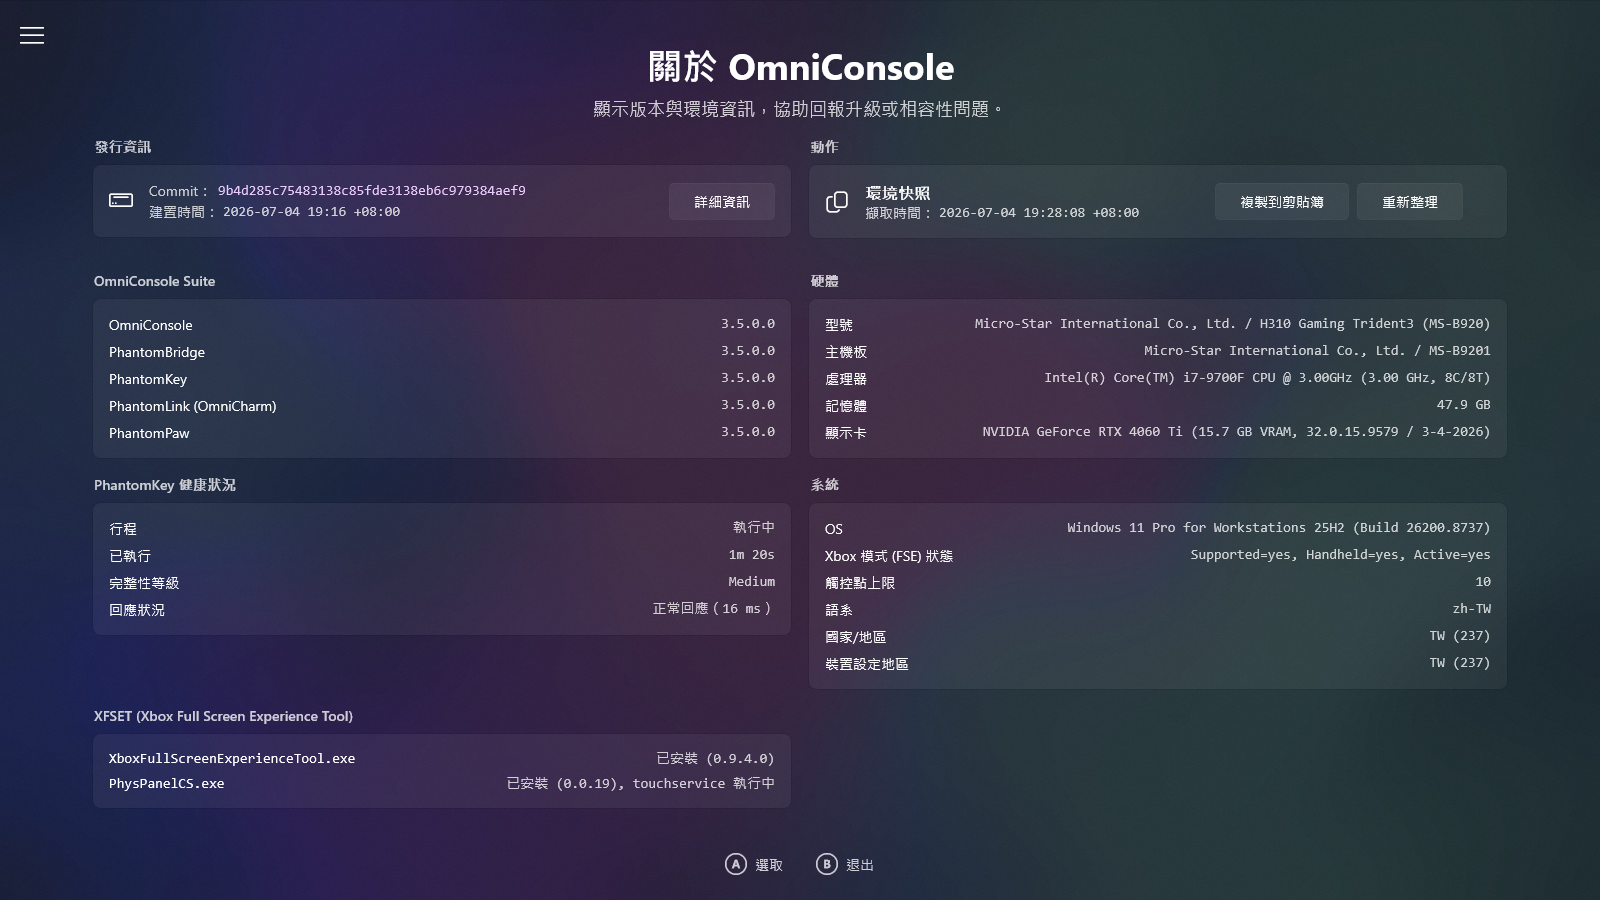
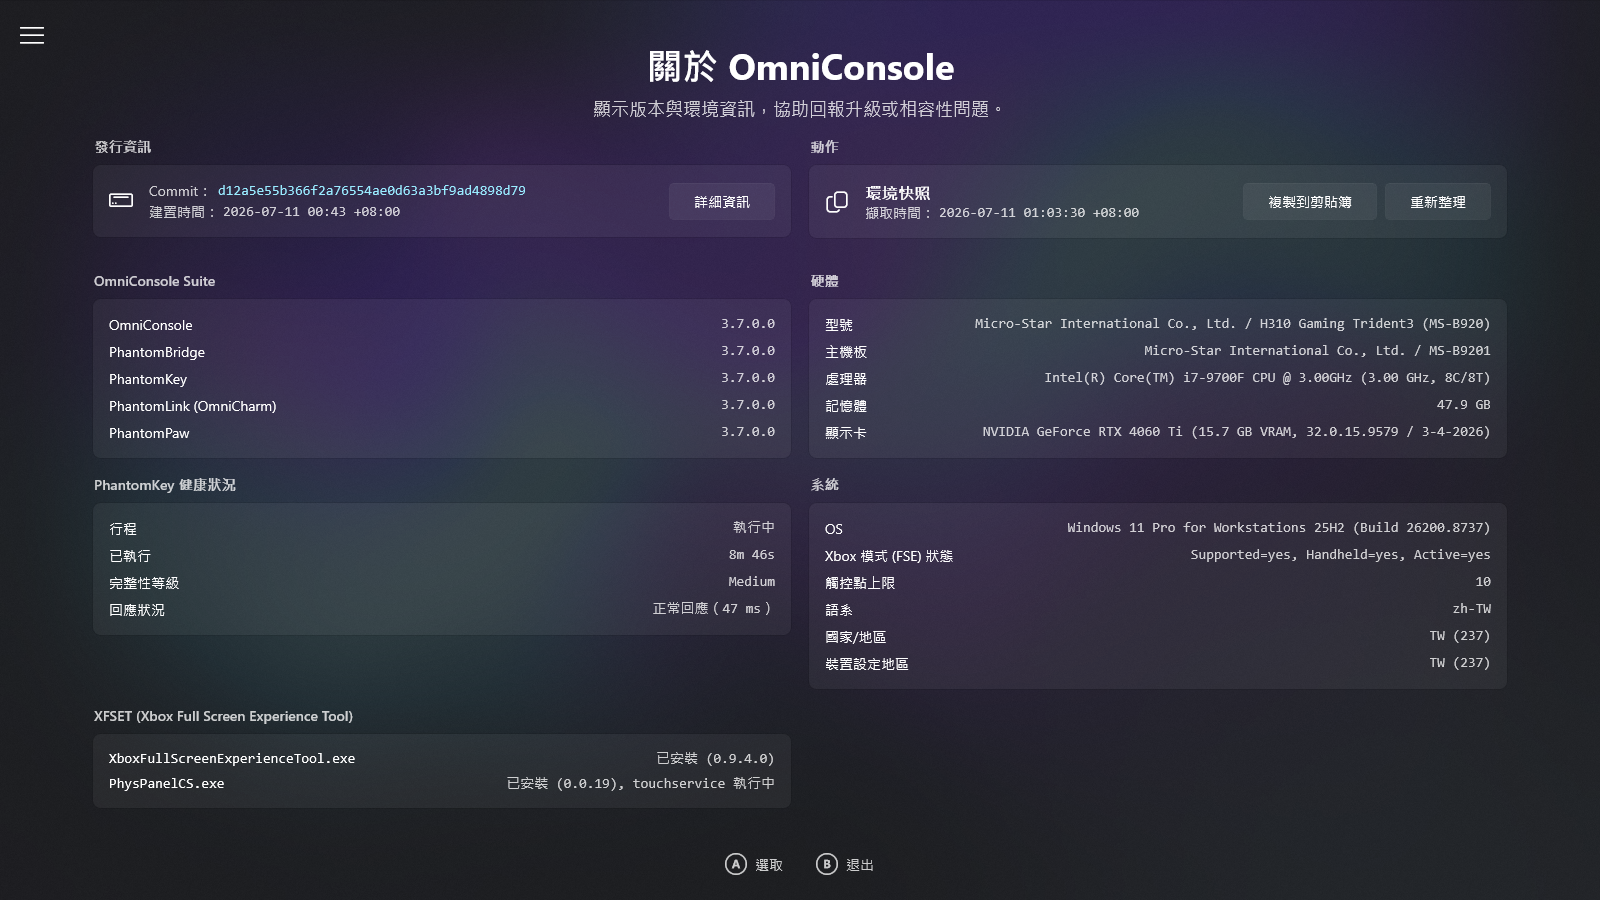
chore: Bump version to 3.7.0.0, recast Nekomata Mode with Boost, hold-to-repeat & customizable app presets, and refresh documentation with new screenshots

diff --git a/README.md b/README.md
@@ -19,7 +19,7 @@
 
 ## 💡 What is OmniConsole?
 
-OmniConsole serves as your Windows 11 Xbox Mode (FSE) Home shell on PCs and handhelds (ROG Xbox Ally X, etc.), with an OmniCharm Game Bar widget, Mouse Mode, Steam shortcuts, and Nekomata per-app gamepad mapping so everything stays on the gamepad.
+OmniConsole serves as your Windows 11 Xbox Mode (FSE) Home shell on PCs and handhelds (ROG Xbox Ally X, etc.), with an OmniCharm Game Bar widget, Steam shortcuts, and Nekomata Mode to turn your gamepad into keyboard and mouse, tailored per app, so everything stays on the gamepad.
 
 Whenever Xbox Mode (FSE) activates, OmniConsole launches your configured gaming platform. Any platform can be your Xbox Mode (FSE) Home — Steam, Xbox, Epic, Armoury Crate SE, Playnite, or anything you add.
 
@@ -43,9 +43,8 @@ Whenever Xbox Mode (FSE) activates, OmniConsole launches your configured gaming 
 - **Troubleshoot page** – A dedicated page for Xbox Mode (FSE) recovery: restarts Game Bar to fix issues such as the "Restart for better performance" dialog not appearing, then enters Xbox Mode (FSE).
 - **Environment snapshot** – An "About" page that captures your system, hardware, and OmniConsole health status, with one-click copy as a Markdown report for easy bug reporting.
 - **Gamepad support** – Navigate with **D-Pad** or **Left Stick**; **A** to confirm, **B** to exit, **LB/RB** to switch category tabs, **Y** to add a custom platform, **X** to edit, and **Menu (☰)** to set the focused platform as default and launch it immediately (when running inside Xbox Mode (FSE)).
-- **Gamepad Mouse Mode** – Use your gamepad as a mouse and keyboard. Three modes: **Off**, **Auto** (browsers, File Explorer, Steam, Epic Games Store, Discord), and **Force On** (all apps except an exclusion list). Cursor speed is adjustable, with two controller layouts to choose from: **OmniNav** and **Classic**.
-- **OmniCharm widget** – A Game Bar widget for in-game quick access. Open **Task View**, the **Xbox Library**, or the **Steam Overlay** in one tap; toggle **Gamepad Mouse Mode**, controller layout, cursor speed, and the **Steam In-Game Overlay** (long-press ☰).
-- **Nekomata — custom per-app gamepad mapping** – Nekomata weaves a charm for each app, remapping every XInput input (A/B/X/Y, LB/RB, LT/RT, LS/RS, D-pad, both sticks) to a keyboard key, modifier combo, mouse button, scroll wheel, cursor movement, scrolling, arrow keys, or WASD. Each app's charm can also **prevent double input** by blocking the app's own native XInput and DirectInput signals to keep them from interfering with the remapped keyboard and mouse. Open the editor from the OmniCharm widget's "Customize gamepad mapping for this app…" button.
+- **OmniCharm widget** – A Game Bar widget for in-game quick access. Open **Task View**, the **Xbox Library**, or the **Steam Overlay** in one tap; toggle **Nekomata Mode**, controller layout preset, cursor speed, and the **Steam In-Game Overlay** (long-press ☰).
+- **Nekomata Mode — gamepad as mouse and keyboard, custom per-app mapping** – When on, your customized profiles take over, while common apps such as browsers, File Explorer, Steam, Epic Games Store, and Discord run on OmniConsole's ready-made mapping, which you can customize too. Nekomata weaves a charm for each app, remapping every XInput input (A/B/X/Y, LB/RB, LT/RT, LS/RS, D-pad, both sticks) to a keyboard key, modifier combo, mouse button, scroll wheel, cursor movement, scrolling, arrow keys, or WASD, with two controller layouts to choose from: **OmniNav** and **Classic**. Each app's charm can also **raise the mapping service priority** with **Nekomata Boost** for demanding games, give any key a **hold-to-repeat** toggle, and **prevent double input** by blocking the app's own native XInput and DirectInput signals to keep them from interfering with the remapped keyboard and mouse. Open the editor from the OmniCharm widget's "Customize gamepad mapping for this app…" button.
 - **Gamepad Steam shortcuts** – The gamepad **⧉** button controls Steam Big Picture shortcuts: short press opens the **Steam Menu**, long press opens the **Quick Access Menu**. Long press **☰** in-game to open the **Steam In-Game Overlay**.
 - **Dedicated Settings entry** – A separate "**OmniConsole Settings**" entry in All Apps lets you change your default platform anytime.
 - **Native Xbox Mode (FSE) integration** – Registered as a Windows 11 Xbox Mode (FSE) Home App through the official API.

diff --git a/README.zh-TW.md b/README.zh-TW.md
@@ -19,7 +19,7 @@
 
 ## 💡 什麼是 OmniConsole？
 
-OmniConsole 在 PC 與掌機（ROG Xbox Ally X 等）上作為你的 Windows 11 Xbox 模式 (FSE) 首頁殼層，並提供 OmniCharm Game Bar 小工具、滑鼠模式、Steam 快捷鍵與貓又的各程式手把映射，讓一切操作都不離手把。
+OmniConsole 在 PC 與掌機（ROG Xbox Ally X 等）上作為你的 Windows 11 Xbox 模式 (FSE) 首頁殼層，並提供 OmniCharm Game Bar 小工具、Steam 快捷鍵，以及能將手把化作鍵鼠、為各程式量身調校的貓又模式，讓一切操作都不離手把。
 
 只要觸發 Xbox 模式 (FSE)，OmniConsole 就會自動啟動你設定的遊戲平台。任何平台都能當你的 Xbox 模式 (FSE) 首頁 — Steam、Xbox、Epic、Armoury Crate SE、Playnite，或你自行新增的平台。
 
@@ -43,9 +43,8 @@ OmniConsole 在 PC 與掌機（ROG Xbox Ally X 等）上作為你的 Windows 11 
 - **疑難排解頁面** – Xbox 模式 (FSE) 救援專屬頁面：重啟 Game Bar 以修復「重新啟動以提升效能」對話方塊未出現等問題，接著進入 Xbox 模式 (FSE)。
 - **環境快照** – 「關於」頁面擷取系統、硬體與 OmniConsole 健康狀態，並支援一鍵複製為 Markdown 格式，方便回報問題。
 - **手把支援** – 以**十字鍵**或**左搖桿**導覽；**A 鍵**確認、**B 鍵**退出、**LB/RB** 切換分類索引標籤、**Y 鍵**新增自訂平台、**X 鍵**編輯，**Menu（☰）鍵**將聚焦平台設為預設並立即啟動（僅在 OmniConsole 於 Xbox 模式 (FSE) 中執行時可用）。
-- **手把滑鼠模式** – 將手把當作滑鼠與鍵盤使用。三種模式：**關閉**、**自動**（瀏覽器、檔案總管、Steam、Epic Games Store、Discord）與**強制開啟**（所有應用程式，排除清單除外）。游標速度可調，並提供兩種控制器版面配置：**OmniNav** 與 **Classic**。
-- **OmniCharm 小工具** – 遊戲中快速存取的 Game Bar 小工具：一鍵開啟**工作檢視**、**Xbox 媒體櫃**或 **Steam 遊戲內嵌介面**；切換**手把滑鼠模式**、控制器版面、游標速度與 **Steam 遊戲內嵌介面**（長按 ☰）。
-- **貓又 — 自訂各程式手把映射** – 貓又為每個程式編一道咒，將所有 XInput 輸入位（A/B/X/Y、LB/RB、LT/RT、LS/RS、十字鍵、雙搖桿）重新映射為鍵盤按鍵、修飾鍵組合、滑鼠按鍵、滾輪、游標移動、捲動、方向鍵或 WASD。每個程式的咒語還可**避免雙重輸入**：阻擋該程式自身的原生 XInput 與 DirectInput 訊號，避免與映射後的鍵鼠相互干擾。從 OmniCharm 小工具的「自訂此程式的手把映射…」按鈕進入編輯器。
+- **OmniCharm 小工具** – 遊戲中快速存取的 Game Bar 小工具：一鍵開啟**工作檢視**、**Xbox 媒體櫃**或 **Steam 遊戲內嵌介面**；切換**貓又模式**、控制器預設版面、游標速度與 **Steam 遊戲內嵌介面**（長按 ☰）。
+- **貓又模式 — 手把化身鍵鼠、自訂各程式映射** – 開啟時，你自訂的設定檔會接手，而瀏覽器、檔案總管、Steam、Epic Games Store、Discord 等常見程式則套用 OmniConsole 預先備妥的映射，這些映射同樣能自訂。貓又為每個程式編一道咒，將所有 XInput 輸入位（A/B/X/Y、LB/RB、LT/RT、LS/RS、十字鍵、雙搖桿）重新映射為鍵盤按鍵、修飾鍵組合、滑鼠按鍵、滾輪、游標移動、捲動、方向鍵或 WASD，並提供兩種控制器版面配置：**OmniNav** 與 **經典**。每個程式的咒語還能以**貓又衝刺**提高映射服務優先順序、應付吃資源的遊戲，為任何按鍵開啟**長按連發**，並**避免雙重輸入**：阻擋該程式自身的原生 XInput 與 DirectInput 訊號，避免與映射後的鍵鼠相互干擾。從 OmniCharm 小工具的「自訂此程式的手把映射…」按鈕進入編輯器。
 - **手把 Steam 快捷鍵** – 手把 **⧉** 按鍵對應 Steam Big Picture 模式快捷：短按開啟 **Steam 選單**，長按喚出**快速存取選單**。在遊戲中長按 **☰** 可開啟 **Steam 遊戲內嵌介面**。
 - **專屬設定入口** – 「所有應用程式」中獨立的「**OmniConsole 設定**」項目，隨時可更改預設平台。
 - **原生 Xbox 模式 (FSE) 整合** – 透過 Windows 11 Xbox 模式 (FSE) 官方 API 註冊為主畫面應用程式。
